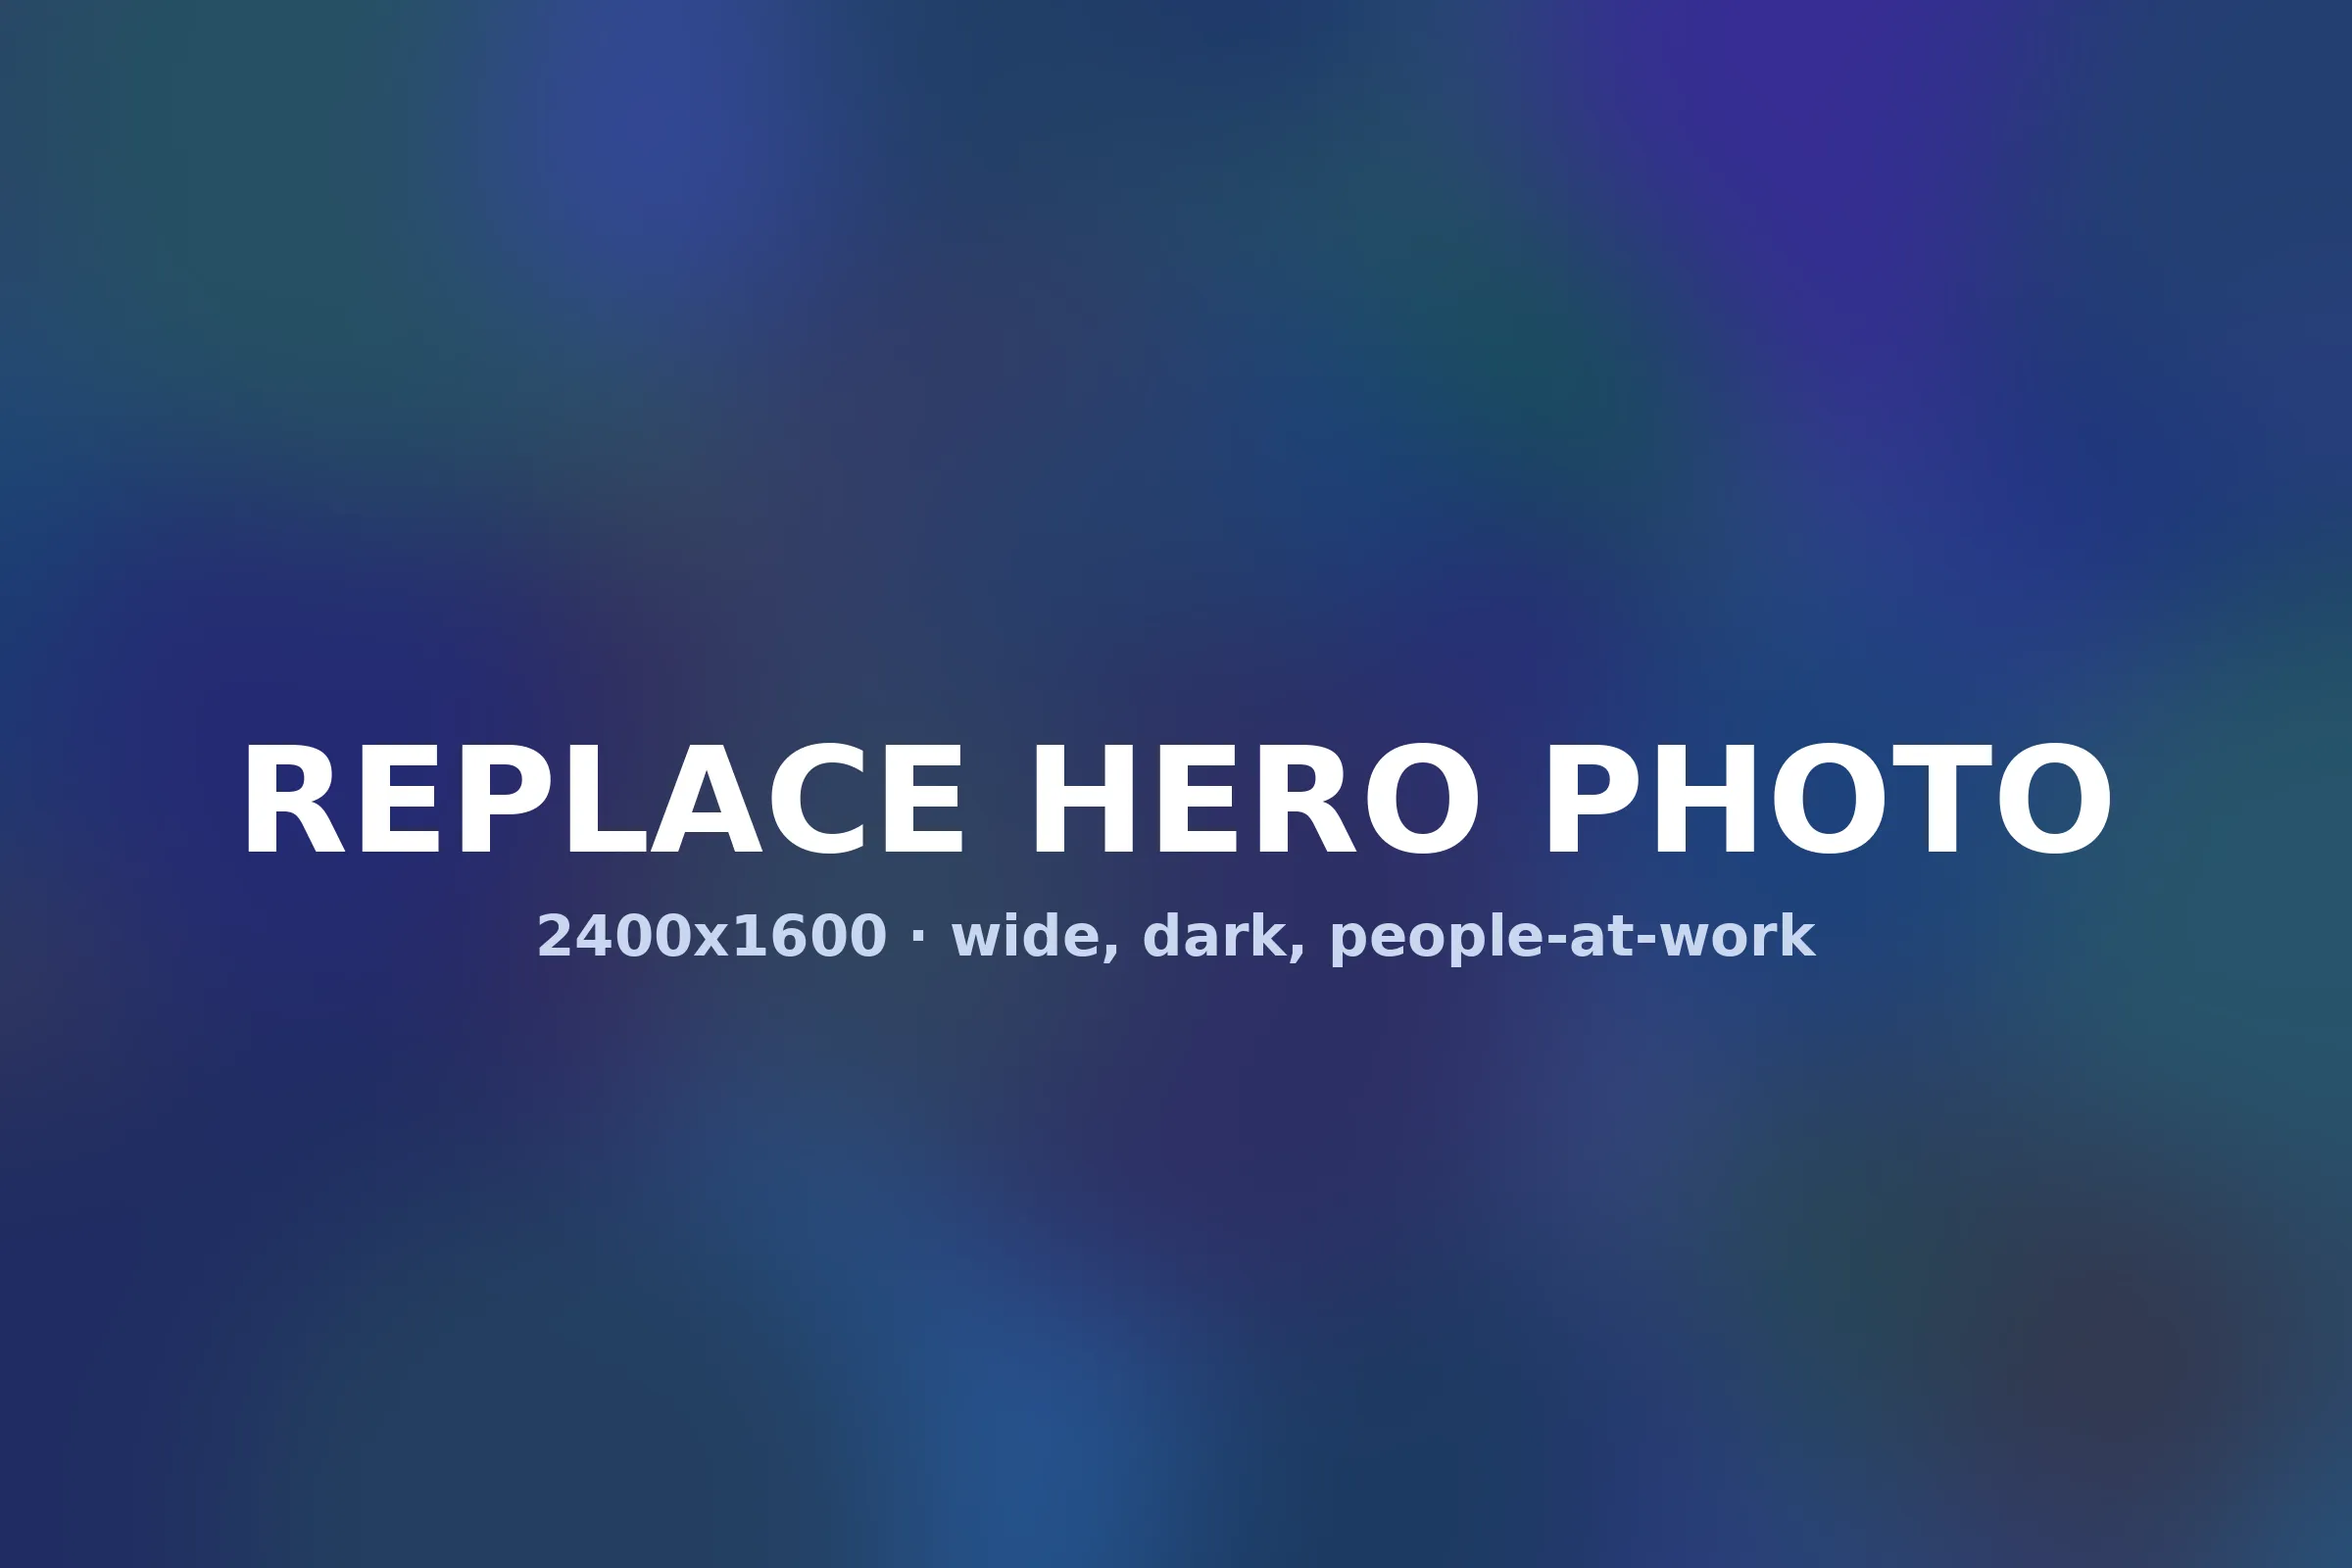
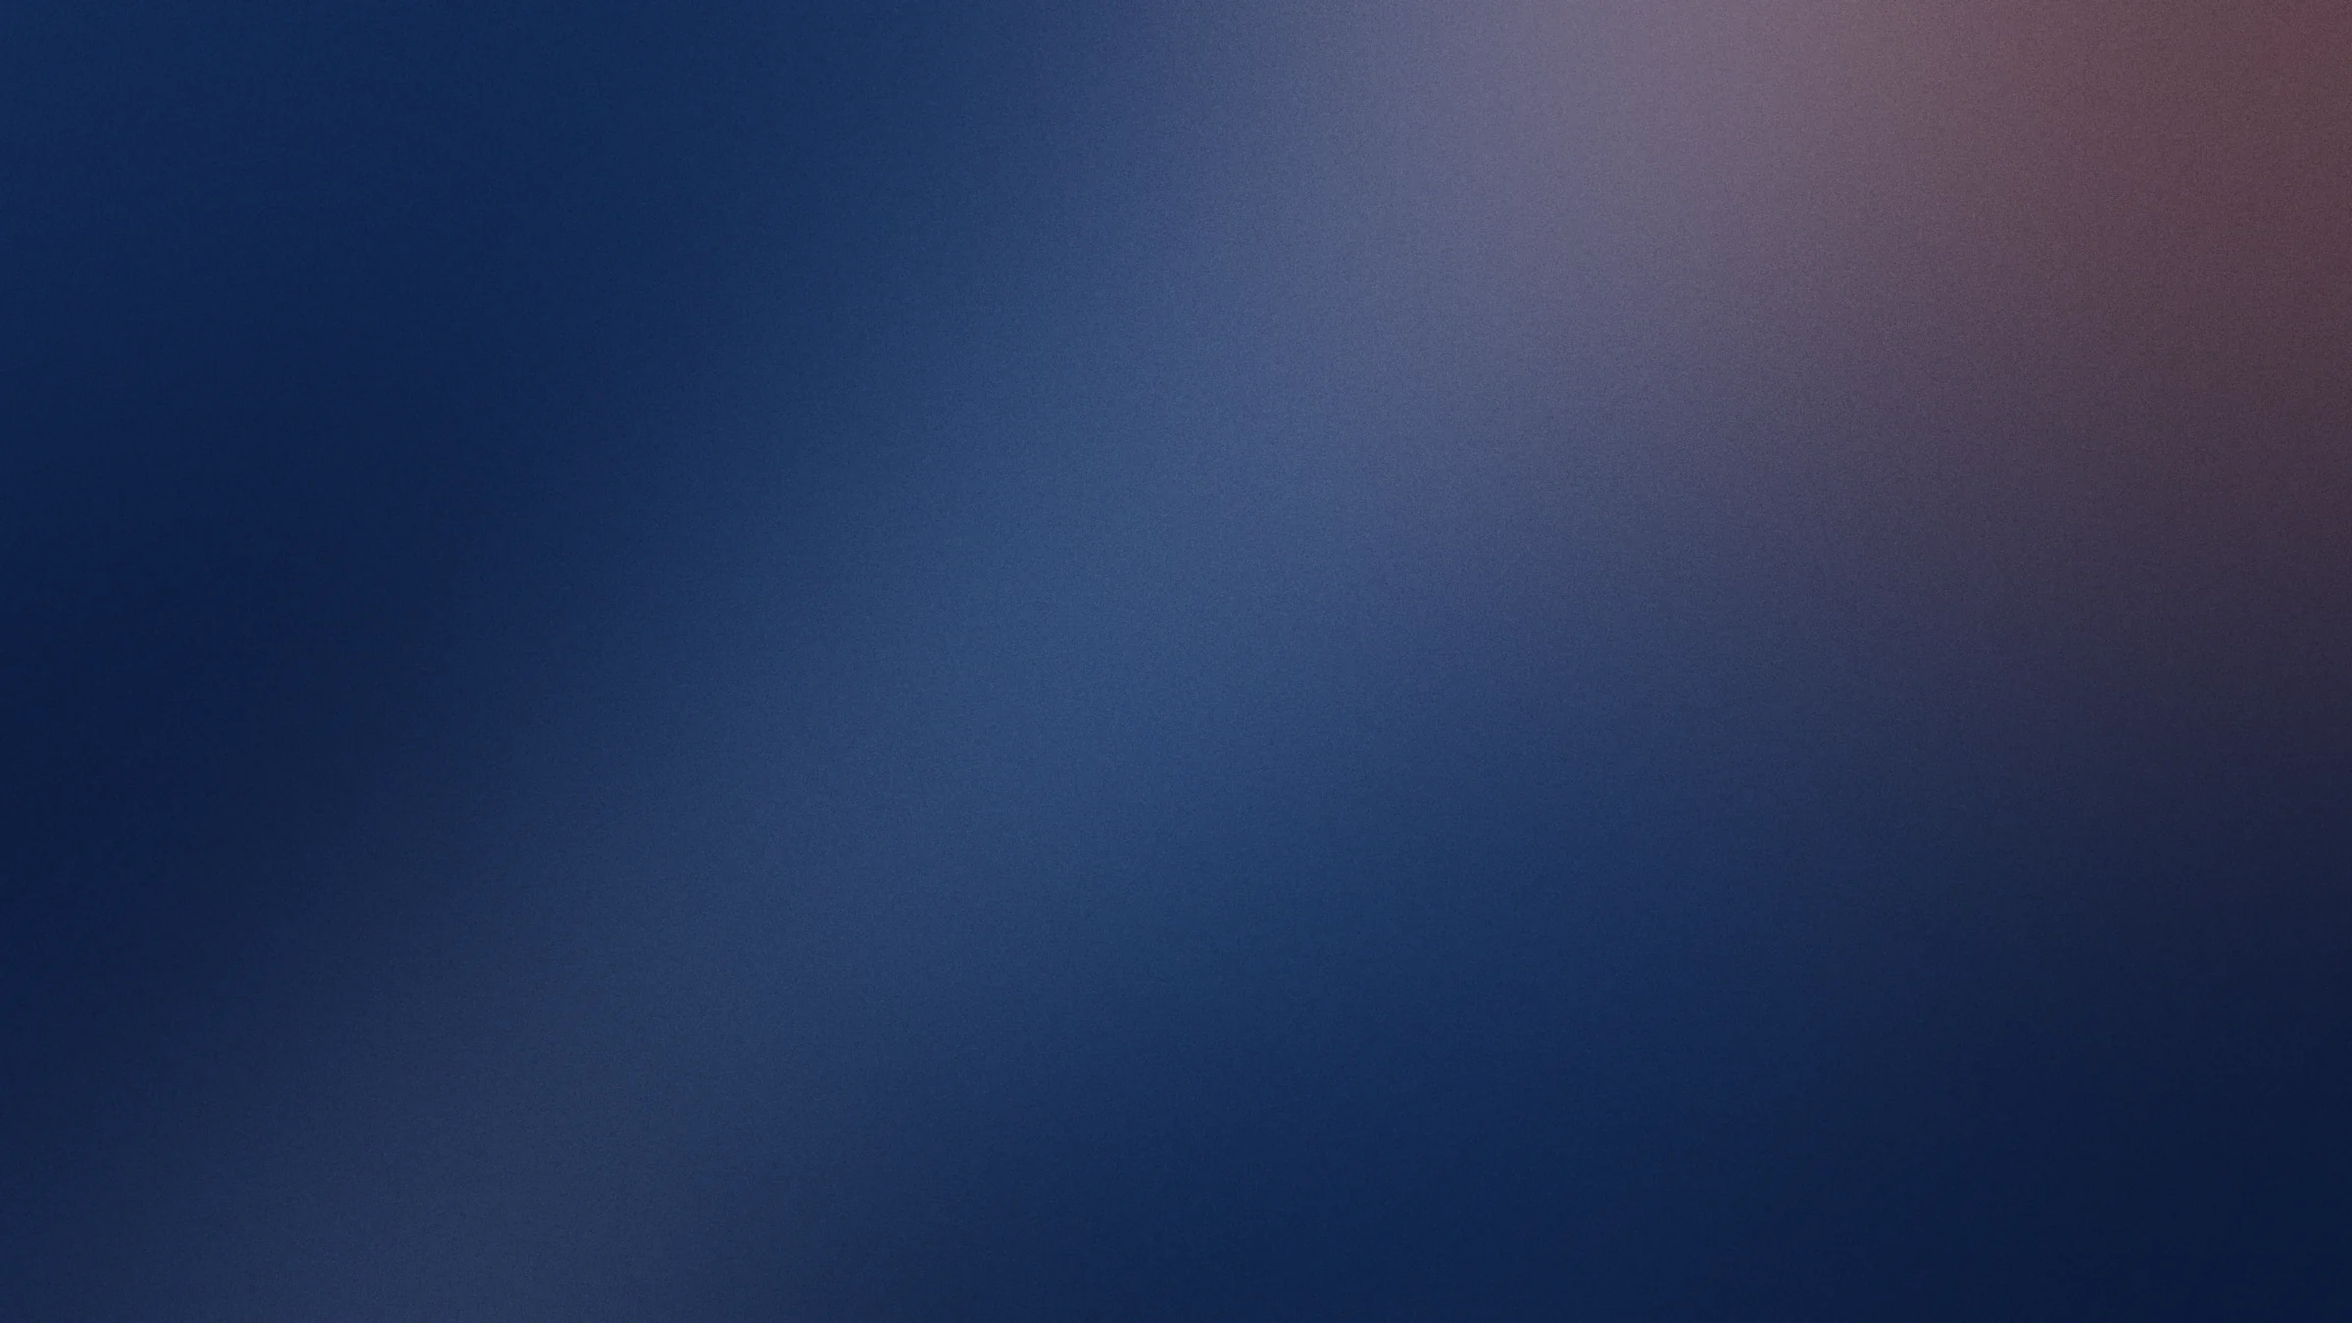
Add SVG illustration set and rework hero background art
Stock photo hosts (Unsplash, Pexels, Wikimedia, Pixabay) are all refused at
the proxy by this environment's network policy, and there is no image
generation available here, so the template cannot ship with photographs.

Adds components/illustrations.tsx: three line-art scenes — under-sink supply
work, a tank water heater, and a drain camera inspection — drawn in the
brand palette with copper reserved for the single focal detail in each. They
weigh a couple of kB inline, stay crisp at any density, and need no licence.
This is the no-photography fallback, not the preferred answer: real job and
team photos are both a conversion driver and a trust signal for a trades
business, so any real deployment should replace these.

NOT yet wired into any page — the Intro collage still points at the old
placeholder plates. Wiring depends on whether real photography arrives.

Regenerates hero-bg.webp as a layered composite (mesh gradient, warm rim
light, diagonal light shaft, film grain, vignette) and adds a portrait crop
so phones do not download a 2400px-wide file to display its middle third.
The result is still too hazy to ship — it reads as a blurred photograph
rather than deliberate art, and needs structural geometry before it is good
enough. Committed as work in progress, not as final.

Claude-Session: https://claude.ai/code/session_013iRtdgyHiowxZwsMBtmhTQ

diff --git a/templates/regina-plumbing/components/illustrations.tsx b/templates/regina-plumbing/components/illustrations.tsx
@@ -1,0 +1,280 @@
+/**
+ * Illustration set.
+ *
+ * These exist because a template cannot ship with photographs it does not
+ * have the rights to, and stock imagery on a trades site is actively
+ * counterproductive — a stock plumber in a stock kitchen reads as fake, and
+ * the playbook is explicit that real job photos are both a conversion and a
+ * trust signal.
+ *
+ * So: line-art scenes in the brand palette. They look deliberate rather than
+ * unfinished, weigh a couple of kB inline, stay crisp at any density, and
+ * need no licence. When the client supplies real photography, swap the
+ * <Illustration> usages for <img> — see README.
+ *
+ * Drawing conventions: 1.5px strokes on a 400×500 or 640×360 canvas, round
+ * caps and joins, copper reserved for the single focal detail in each scene
+ * so the eye lands somewhere specific.
+ */
+
+type Props = { className?: string; title: string };
+
+/** Shared defs: duotone wash + the dotted field from the reference site. */
+function Defs({ id }: { id: string }) {
+  return (
+    <defs>
+      <linearGradient id={`${id}-sky`} x1="0" y1="0" x2="0" y2="1">
+        <stop offset="0%" stopColor="#eef5fd" />
+        <stop offset="100%" stopColor="#d6e8fa" />
+      </linearGradient>
+      <linearGradient id={`${id}-deep`} x1="0" y1="0" x2="1" y2="1">
+        <stop offset="0%" stopColor="#1d2a52" />
+        <stop offset="100%" stopColor="#0d1428" />
+      </linearGradient>
+      <pattern id={`${id}-dots`} width="12" height="12" patternUnits="userSpaceOnUse">
+        <circle cx="1.6" cy="1.6" r="1.6" fill="#2569b3" opacity="0.22" />
+      </pattern>
+    </defs>
+  );
+}
+
+/* ── Scene 1: under-sink supply work ─────────────────────────────────── */
+export function IllustrationTechnician({ className = '', title }: Props) {
+  return (
+    <svg viewBox="0 0 400 500" className={className} role="img" aria-label={title}>
+      <Defs id="tech" />
+      <rect width="400" height="500" fill="url(#tech-sky)" />
+      <rect x="232" y="40" width="128" height="128" fill="url(#tech-dots)" />
+
+      {/* cabinet carcass */}
+      <path
+        d="M56 150h288v300H56z"
+        fill="#fff"
+        stroke="#1d2a52"
+        strokeWidth="3"
+        strokeLinejoin="round"
+      />
+      <path d="M56 150h288v34H56z" fill="#1d2a52" />
+
+      {/* basin */}
+      <path
+        d="M120 184h160v52a26 26 0 0 1-26 26h-108a26 26 0 0 1-26-26z"
+        fill="#fff"
+        stroke="#1d2a52"
+        strokeWidth="3"
+        strokeLinejoin="round"
+      />
+
+      {/* trap + supply lines — the subject of the drawing */}
+      <path
+        d="M200 262v44m0 0c0 26 34 26 34 0v-26"
+        fill="none"
+        stroke="#1d2a52"
+        strokeWidth="7"
+        strokeLinecap="round"
+      />
+      <path
+        d="M234 280v-52"
+        fill="none"
+        stroke="#1d2a52"
+        strokeWidth="7"
+        strokeLinecap="round"
+      />
+      <path
+        d="M150 300c0 40 26 58 50 58"
+        fill="none"
+        stroke="#2569b3"
+        strokeWidth="6"
+        strokeLinecap="round"
+      />
+
+      {/* shut-off valve, the copper focal point */}
+      <circle cx="150" cy="292" r="16" fill="#fff" stroke="#b4561f" strokeWidth="5" />
+      <path d="M150 276v-22" stroke="#b4561f" strokeWidth="5" strokeLinecap="round" />
+      <path d="M138 254h24" stroke="#b4561f" strokeWidth="5" strokeLinecap="round" />
+
+      {/* hands at work */}
+      <path
+        d="M262 356c18-10 34-4 42 8"
+        fill="none"
+        stroke="#1d2a52"
+        strokeWidth="6"
+        strokeLinecap="round"
+      />
+      <path
+        d="M282 372a20 20 0 0 0 34 12l14-16"
+        fill="none"
+        stroke="#1d2a52"
+        strokeWidth="6"
+        strokeLinecap="round"
+        strokeLinejoin="round"
+      />
+
+      {/* floor line */}
+      <path d="M56 450h288" stroke="#1d2a52" strokeWidth="3" strokeLinecap="round" />
+    </svg>
+  );
+}
+
+/* ── Scene 2: tank water heater ───────────────────────────────────────── */
+export function IllustrationWaterHeater({ className = '', title }: Props) {
+  return (
+    <svg viewBox="0 0 400 500" className={className} role="img" aria-label={title}>
+      <Defs id="wh" />
+      <rect width="400" height="500" fill="url(#wh-sky)" />
+      <rect x="40" y="330" width="108" height="108" fill="url(#wh-dots)" />
+
+      {/* tank */}
+      <rect
+        x="128"
+        y="96"
+        width="150"
+        height="310"
+        rx="34"
+        fill="#fff"
+        stroke="#1d2a52"
+        strokeWidth="3"
+      />
+      <path d="M128 176h150" stroke="#1d2a52" strokeWidth="3" />
+      <path d="M128 316h150" stroke="#1d2a52" strokeWidth="3" />
+
+      {/* inlet / outlet */}
+      <path
+        d="M164 96V56h-32M242 96V56h34"
+        fill="none"
+        stroke="#1d2a52"
+        strokeWidth="7"
+        strokeLinecap="round"
+        strokeLinejoin="round"
+      />
+
+      {/* T&P relief valve — copper focal point */}
+      <path
+        d="M278 214h44v96"
+        fill="none"
+        stroke="#b4561f"
+        strokeWidth="6"
+        strokeLinecap="round"
+        strokeLinejoin="round"
+      />
+      <circle cx="278" cy="214" r="13" fill="#fff" stroke="#b4561f" strokeWidth="5" />
+
+      {/* control dial */}
+      <circle cx="203" cy="246" r="27" fill="#eef5fd" stroke="#2569b3" strokeWidth="4" />
+      <path d="M203 246l14-14" stroke="#2569b3" strokeWidth="5" strokeLinecap="round" />
+
+      {/* burner glow */}
+      <path
+        d="M186 356c0-12 17-16 17-30 0 14 17 18 17 30a17 17 0 1 1-34 0z"
+        fill="#e89a5c"
+        stroke="#b4561f"
+        strokeWidth="3"
+        strokeLinejoin="round"
+      />
+
+      {/* legs + floor */}
+      <path
+        d="M158 406v26M248 406v26"
+        stroke="#1d2a52"
+        strokeWidth="6"
+        strokeLinecap="round"
+      />
+      <path d="M56 434h288" stroke="#1d2a52" strokeWidth="3" strokeLinecap="round" />
+    </svg>
+  );
+}
+
+/* ── Scene 3: drain camera inspection (wide) ──────────────────────────── */
+export function IllustrationDrain({ className = '', title }: Props) {
+  return (
+    <svg viewBox="0 0 640 360" className={className} role="img" aria-label={title}>
+      <Defs id="dr" />
+      <rect width="640" height="360" fill="url(#dr-deep)" />
+      <rect x="500" y="36" width="108" height="96" fill="url(#dr-dots)" opacity="0.5" />
+
+      {/* sewer line, cut away */}
+      <path
+        d="M40 232h560"
+        stroke="#2569b3"
+        strokeWidth="3"
+        strokeDasharray="10 9"
+        opacity="0.55"
+      />
+      <path
+        d="M40 148h560M40 300h560"
+        stroke="#4d9bea"
+        strokeWidth="4"
+        strokeLinecap="round"
+        opacity="0.8"
+      />
+
+      {/* pipe joints */}
+      {[168, 336, 504].map((x) => (
+        <path
+          key={x}
+          d="M0 148v152"
+          transform={`translate(${x} 0)`}
+          stroke="#4d9bea"
+          strokeWidth="3"
+          opacity="0.45"
+        />
+      ))}
+
+      {/* root intrusion at a joint */}
+      <path
+        d="M336 148c-14 22-38 24-52 42m52-42c10 26 30 30 42 48"
+        fill="none"
+        stroke="#7db8f2"
+        strokeWidth="3"
+        strokeLinecap="round"
+        opacity="0.7"
+      />
+
+      {/* camera head + cable — copper focal point */}
+      <path
+        d="M40 232h150"
+        stroke="#b4561f"
+        strokeWidth="5"
+        strokeLinecap="round"
+        opacity="0.9"
+      />
+      <circle cx="206" cy="232" r="22" fill="#0d1428" stroke="#d4762f" strokeWidth="5" />
+      <circle cx="206" cy="232" r="8" fill="#e89a5c" />
+
+      {/* light cone */}
+      <path d="M228 232l124-46v92z" fill="#e89a5c" opacity="0.16" />
+
+      {/* readout ticks */}
+      <g opacity="0.55">
+        {[0, 1, 2, 3].map((i) => (
+          <path
+            key={i}
+            d={`M${556 + i * 0} ${292 - i * 16}h40`}
+            stroke="#7db8f2"
+            strokeWidth="3"
+            strokeLinecap="round"
+          />
+        ))}
+      </g>
+    </svg>
+  );
+}
+
+/** Frame wrapper so the three scenes share the plate treatment. */
+export function Illustration({
+  variant,
+  title,
+  className = '',
+}: {
+  variant: 'technician' | 'waterheater' | 'drain';
+  title: string;
+  className?: string;
+}) {
+  const Art = {
+    technician: IllustrationTechnician,
+    waterheater: IllustrationWaterHeater,
+    drain: IllustrationDrain,
+  }[variant];
+
+  return <Art className={`h-full w-full object-cover ${className}`} title={title} />;
+}
